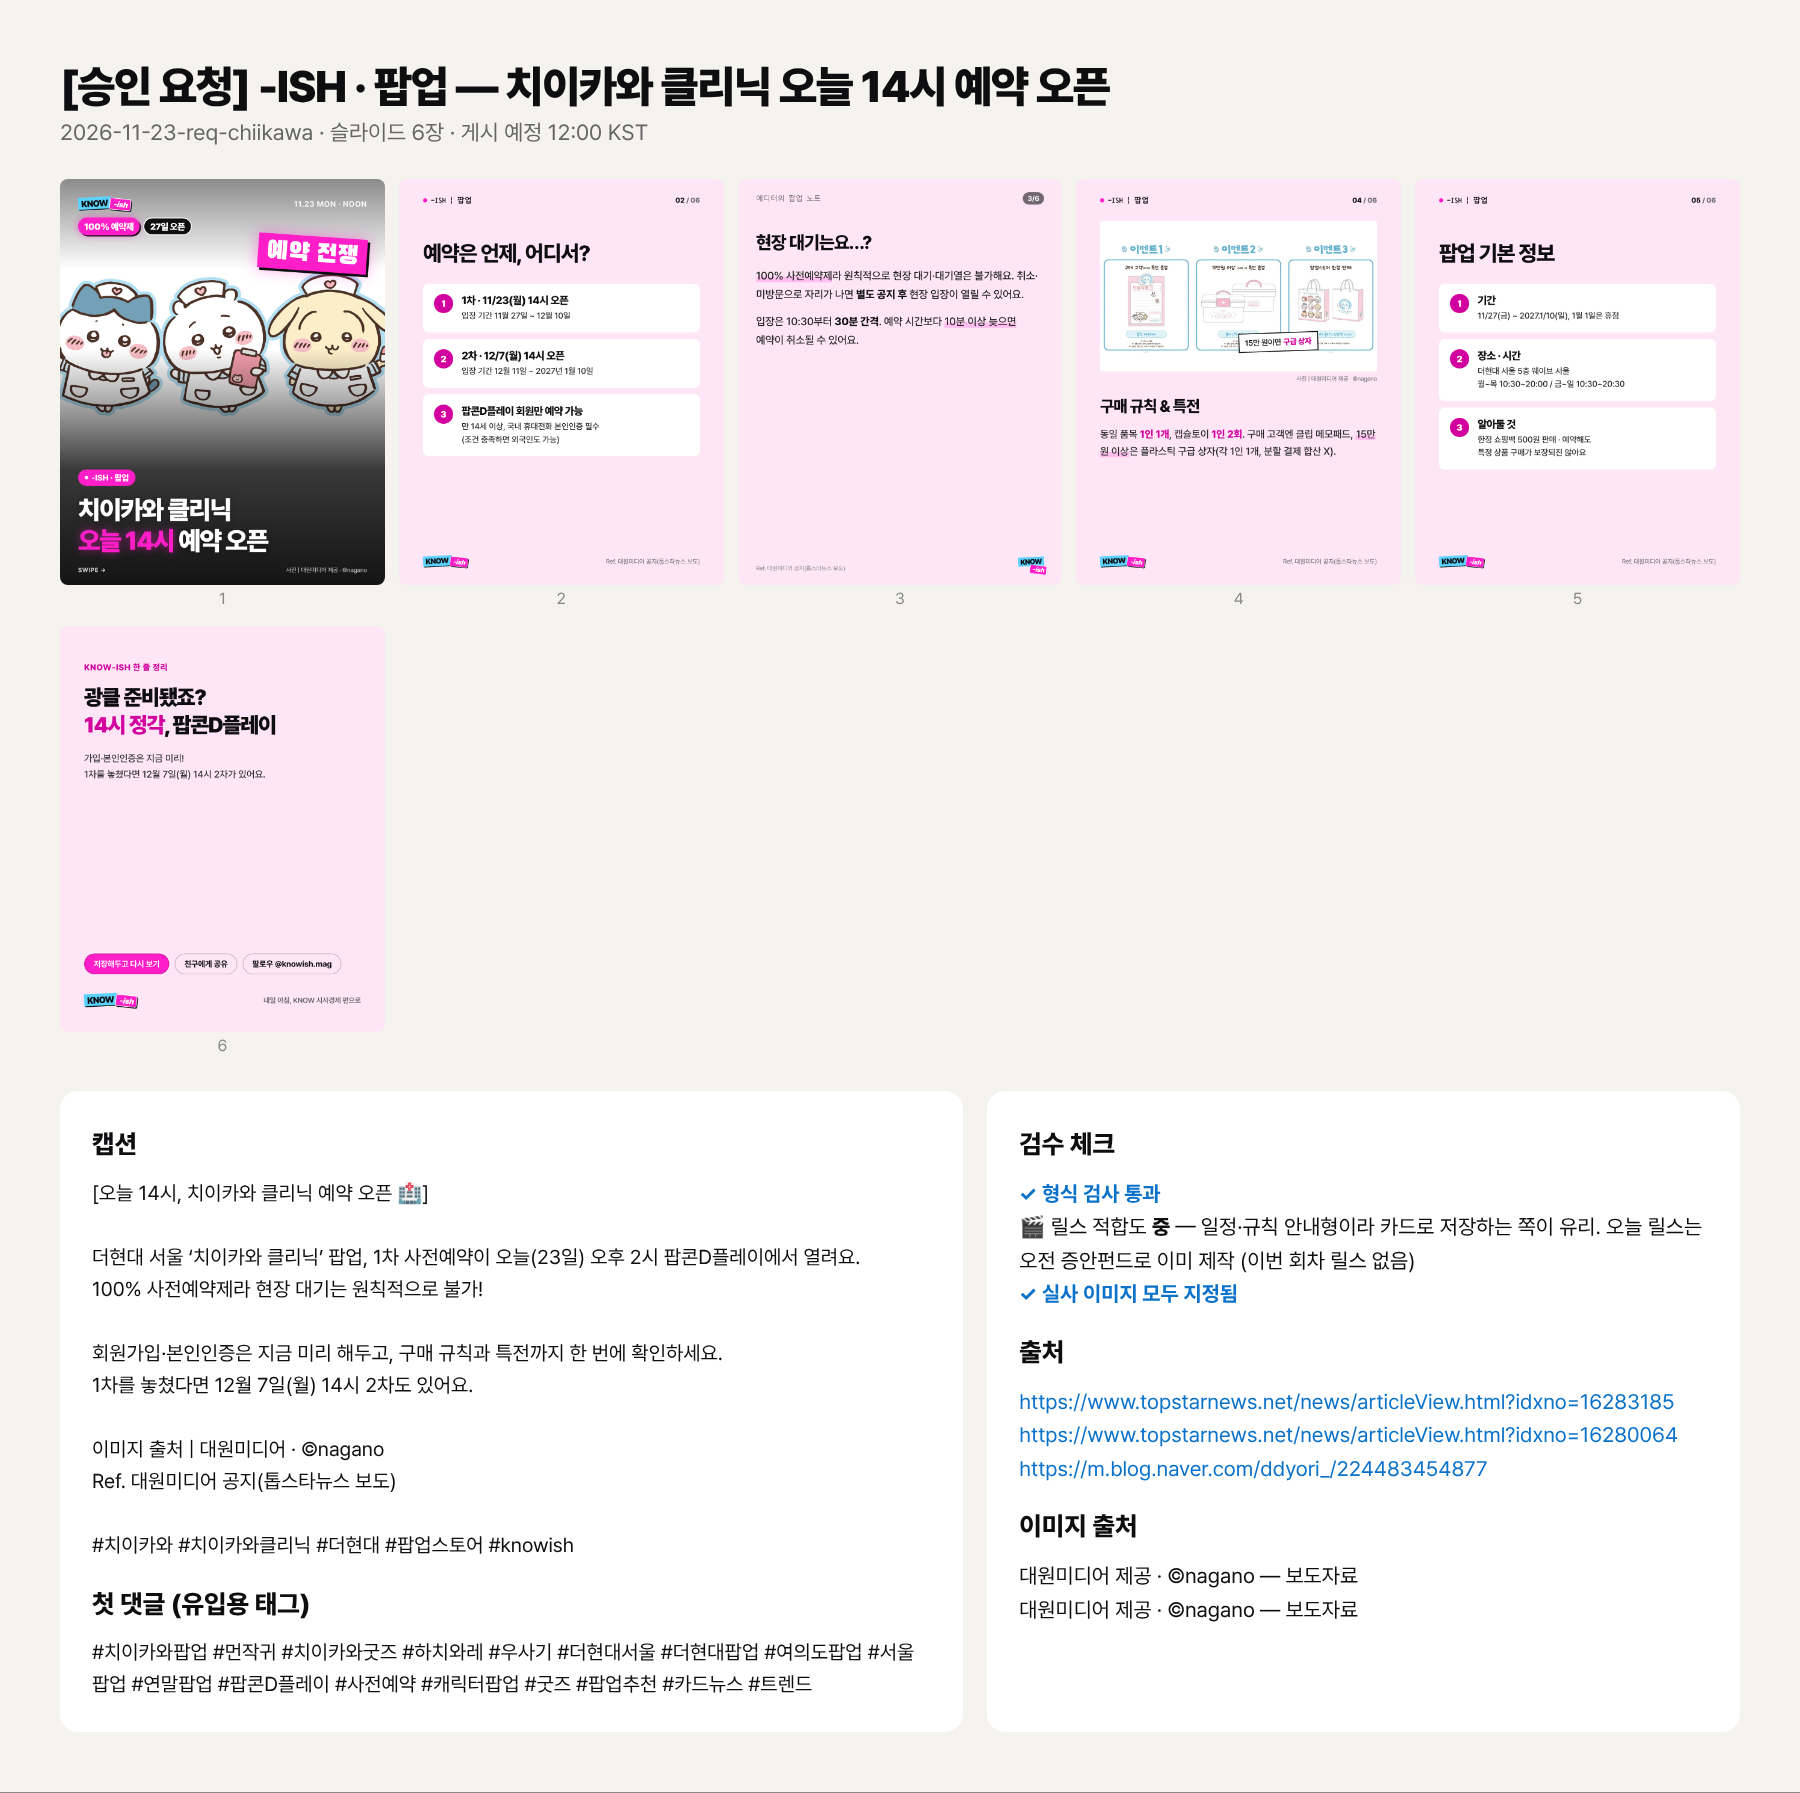
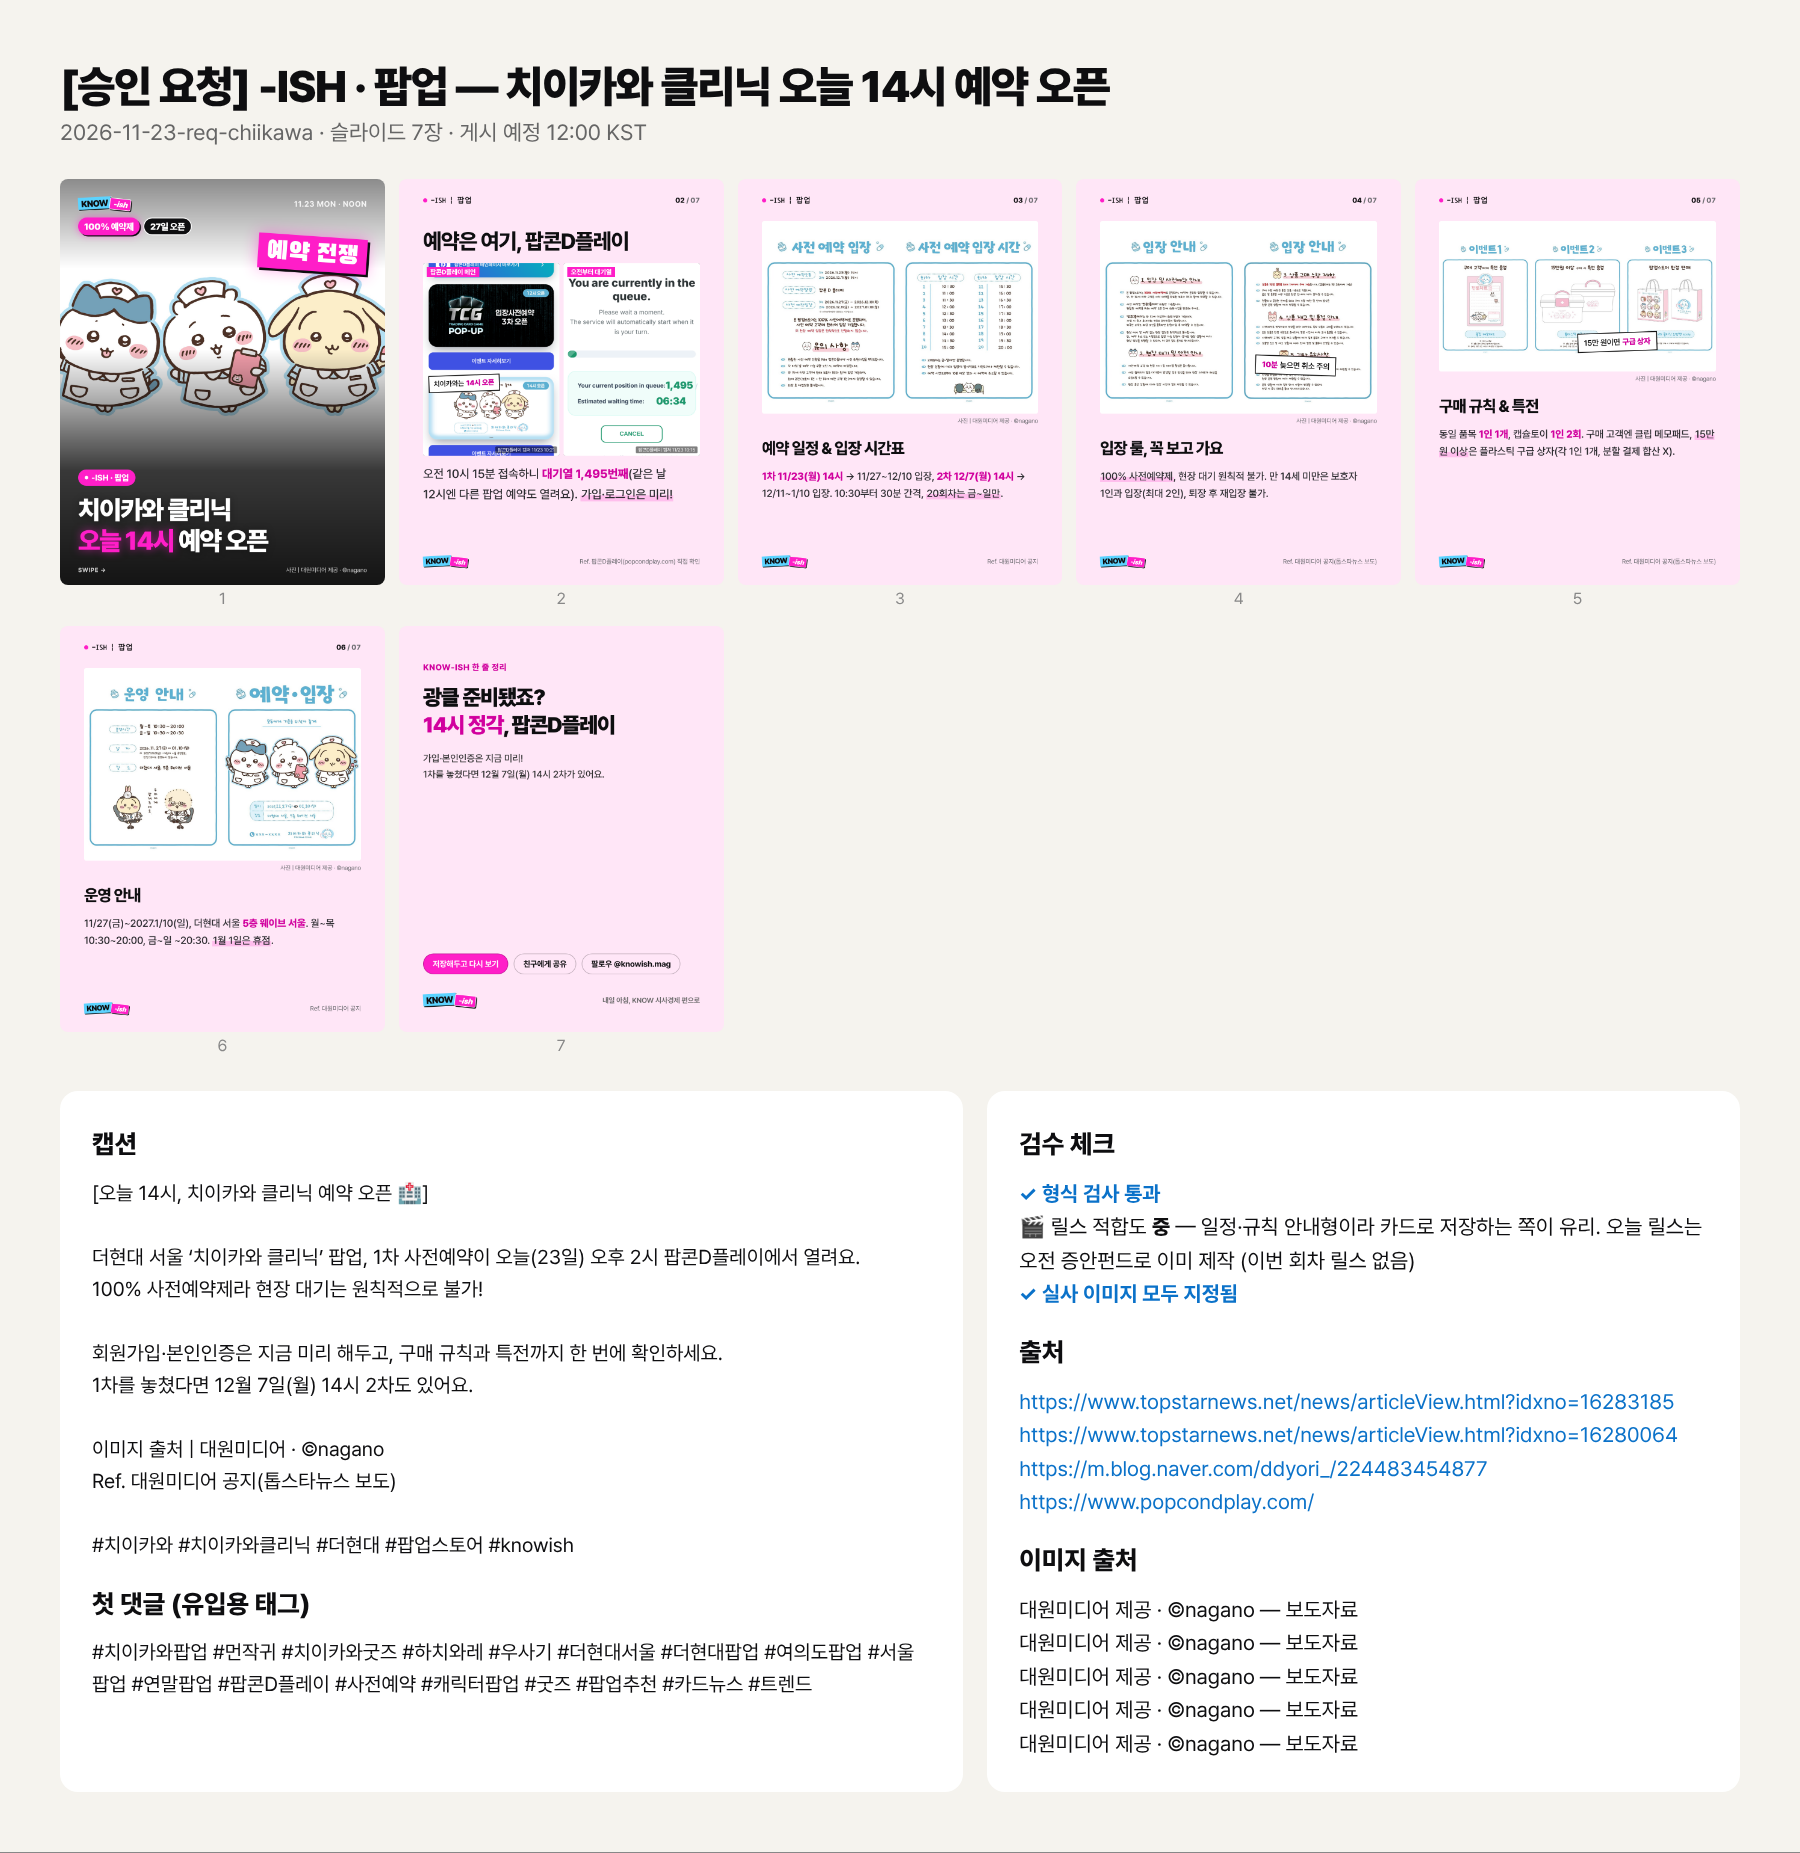
치이카와 게시물 수정: 팝콘D플레이 화면·대원미디어 공지 이미지 중심으로 재구성, body 이미지 높이(h) 옵션
Claude-Session: https://claude.ai/code/session_019qCDgtKUUxWTJuWU3cPXKC

diff --git a/onoff/posts/2026-11-23-req-chiikawa/review.md b/onoff/posts/2026-11-23-req-chiikawa/review.md
@@ -1,6 +1,6 @@
 # [승인 요청] -ISH · 팝업
 
-- 게시물: `2026-11-23-req-chiikawa` (슬라이드 6장, 게시 예정 12:00 KST)
+- 게시물: `2026-11-23-req-chiikawa` (슬라이드 7장, 게시 예정 12:00 KST)
 - 형식 검사: 통과
 - 실사 이미지: 모두 지정
 - 릴스: 적합도 중 — 일정·규칙 안내형이라 카드로 저장하는 쪽이 유리. 오늘 릴스는 오전 증안펀드로 이미 제작 (이번 회차 없음)
@@ -30,8 +30,12 @@ Ref. 대원미디어 공지(톱스타뉴스 보도)
 - https://www.topstarnews.net/news/articleView.html?idxno=16283185
 - https://www.topstarnews.net/news/articleView.html?idxno=16280064
 - https://m.blog.naver.com/ddyori_/224483454877
+- https://www.popcondplay.com/
 
 ## 이미지
+- 대원미디어 제공 · ©nagano · 보도자료
+- 대원미디어 제공 · ©nagano · 보도자료
+- 대원미디어 제공 · ©nagano · 보도자료
 - 대원미디어 제공 · ©nagano · 보도자료
 - 대원미디어 제공 · ©nagano · 보도자료
 
